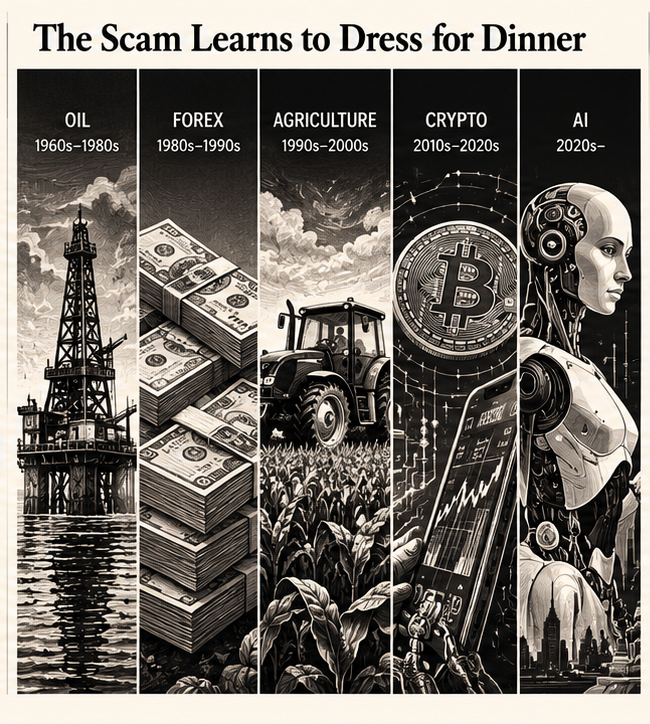
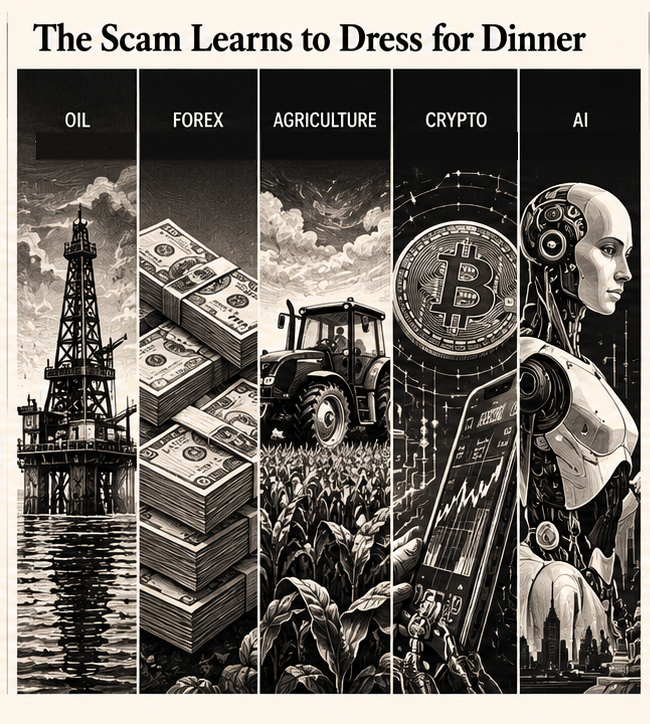
Standardise The Republic of 30%: label illustrations AI-generated, fix montage dates and sign caption, reword retired constructions, log in ledger
Claude-Session: https://claude.ai/code/session_01DnpQDjd1ztLDg9voyEfsYj

diff --git a/app/research/[slug]/page.tsx b/app/research/[slug]/page.tsx
@@ -19,35 +19,35 @@ function withRepublicNarrativeIllustrations(slug: string, html: string) {
 
   return html
     .replace(
-      "<p>Then came a man in Port Harcourt who understood the difference.</p>",
-      `<p>Then came a man in Port Harcourt who understood the difference.</p>${narrativeFigure(
+      "<h3>Before Telegram, There Was Aba Road</h3>",
+      `<h3>Before Telegram, There Was Aba Road</h3>${narrativeFigure(
         "01-before-telegram-aba-road.png",
-        "Black-and-white Seven Gates editorial reconstruction of a queue outside a Nigerian investment company before the Telegram era.",
-        "Seven Gates editorial illustration. Fictional reconstruction, not documentary evidence.",
+        "AI-generated black-and-white editorial illustration of a queue outside a fictional Nigerian investment company, before the Telegram era.",
+        "Seven Gates editorial illustration. AI-generated fictional scene, not documentary evidence. Company name and signage are invented.",
       )}`,
     )
     .replace(
       "<p>This was not competition. It was a declaration of war on multiplication.</p>",
       `${narrativeFigure(
         "02-1991-port-harcourt.png",
-        "Black-and-white Seven Gates editorial reconstruction of investors outside Resources Managers Investments Limited in 1991 Port Harcourt.",
-        "Seven Gates editorial illustration. Fictional reconstruction of the 1991 wonder-bank moment, not documentary evidence.",
+        "AI-generated black-and-white editorial illustration of investors queuing outside a fictional investment office, imagined in the style of 1991 Port Harcourt.",
+        "Seven Gates editorial illustration. AI-generated imagining of the 1991 wonder-bank moment, not documentary evidence. Signage is illustrative and does not reproduce the company's actual signage or registered name.",
       )}<p>This was not competition. It was a declaration of war on multiplication.</p>`,
     )
     .replace(
       "<p>The Professor of Wonders has acquired a dashboard.</p>",
       `<p>The Professor of Wonders has acquired a dashboard.</p>${narrativeFigure(
         "03-scam-dresses-for-dinner.png",
-        "Seven Gates editorial montage showing investment-fraud costumes shifting across oil, forex, agriculture, crypto and artificial intelligence.",
-        "Seven Gates editorial illustration. Oil, forex, agriculture, crypto and AI: different costumes, same promise.",
+        "AI-generated editorial montage of five panels labelled oil, forex, agriculture, crypto and AI, the costumes worn by investment fraud.",
+        "Seven Gates editorial illustration. AI-generated montage; panel order is thematic, not a dated sequence. Oil, forex, agriculture, crypto and AI: different costumes, same promise.",
       )}`,
     )
     .replace(
       "<p>Then came the number that travelled fastest: ₦1.3 trillion.</p>",
       `${narrativeFigure(
         "04-digital-ponzi.png",
-        "Black-and-white Seven Gates editorial illustration of Nigerian investors using phones around a fictional 30 per cent monthly digital investment platform.",
-        "Seven Gates editorial illustration. Fictional digital-Ponzi scene, not documentary evidence.",
+        "AI-generated black-and-white editorial illustration of Nigerian investors using phones around a fictional 30 per cent monthly digital investment platform.",
+        "Seven Gates editorial illustration. AI-generated fictional digital-Ponzi scene, not documentary evidence.",
       )}<p>Then came the number that travelled fastest: ₦1.3 trillion.</p>`,
     );
 }

diff --git a/content/research/republic-of-30-percent-nigeria-ponzi-schemes.md b/content/research/republic-of-30-percent-nigeria-ponzi-schemes.md
@@ -28,7 +28,7 @@ By The Lokoja Contrarian · 5 September 2026 · Restructured 5 October 2026 · S
 | Historical anchors | P. Crentsil (1920-21), Umanah / Resources Managers (1991), MMM (2016), CBEX (2025-26). |
 | Seven Gates view | Treat any promised return that cannot name its source of cash as a Ponzi until shown otherwise. Thematic essay; not rated. |
 | Evidence discipline | Official facts, court allegations, investor claims and media estimates are kept separate. |
-| Data cut-off | 5 September 2026. Structure refreshed 5 October 2026; no figure changed. |
+| Data cut-off | 5 September 2026. Structure refreshed 5 October 2026 and illustrations standardised 14 October 2026; no figure changed. |
 
 ### A note on the trigger
 
@@ -46,7 +46,7 @@ Thirty days later, his phone buzzes.
 
 Credit alert: ₦300,000.
 
-The arithmetic has arrived before the explanation.
+The credit alert has arrived before the explanation.
 
 He stares at the balance for a moment, because money on a screen has a peculiar authority. Then he takes a screenshot. This is the first ritual. The second is distribution. His wife sees it. A colleague sees it. His brother in London receives it with the caption, *I told you these people are serious.* By evening it has entered an alumni WhatsApp group. By Sunday, depending on the investor, it may have acquired a theological dimension.
 
@@ -206,7 +206,7 @@ Here is a simulation, in numbers, beginning with ₦1 billion of new money:
 | 7 | ₦8.845bn | 20% | ₦9.582bn | -₦737m | ₦996m |
 | 8 | ₦9.730bn | 10% | ₦11.499bn | -₦1.769bn | -₦773m |
 
-Month eight is the joke mathematics tells after everyone else has stopped laughing.
+Month eight is where the model breaks, after everyone else has stopped laughing.
 
 ![Illustrative MMM-style cash-flow simulation](/images/research/republic-of-30-percent-nigeria-ponzi-schemes/mmm_sim.svg)
 
@@ -260,7 +260,7 @@ A solvency problem acquires a run.
 
 A comparison with banking helps here. A bank can be economically solvent but temporarily illiquid: its assets may exceed its liabilities even though the assets cannot be converted to cash fast enough to meet withdrawals. A classic Ponzi has the more embarrassing problem. It is typically illiquid because its economics were never solvent in the first place.
 
-The crisis does not create the fraud. It forces the arithmetic to speak aloud.
+The crisis does not create the fraud. It forces the arithmetic into view.
 
 ### A Short Visit to New York
 
@@ -271,7 +271,7 @@ When the global financial crisis hit in 2008, clients wanted their money. Madoff
 
 It is often said loosely that the crisis "caused" Madoff to fail. That gives the market crash too much credit.
 
-**The mathematics was already fraudulent. The crisis forced the balance sheet to confess.**
+**The mathematics was already fraudulent. The crisis exposed the balance sheet.**
 
 What if Madoff had simply invested the money?
 
@@ -770,7 +770,7 @@ This is the final insult of a mature fraud: the victim is asked to finance the r
 
 It sounds absurd from outside the system. Inside, it is framed as the last small obstacle between the investor and his trapped fortune.
 
-Sunk cost has found a payment gateway.
+The sunk-cost trap now has a payment page.
 
 ### The Helicopter View
 
@@ -782,7 +782,7 @@ Bernie Madoff found sophisticated investors with stability and exclusivity.
 
 Albania in 1996-97 showed what happens when pyramid finance becomes systemic. IMF research estimated the schemes' nominal liabilities at roughly half of GDP, with participation reaching a huge share of the population. When they collapsed, financial failure became political disorder.
 
-Britain has had mini-bonds and investment scandals. France has had collectible and alternative-asset frauds. Crypto produced borderless versions because the sales funnel became global before the regulator could finish breakfast.
+Britain has had mini-bonds and investment scandals. France has had collectible and alternative-asset frauds. Crypto produced borderless versions because the sales funnel became global before any regulator could respond.
 
 Human beings everywhere are attracted to yield, authority, novelty and the possibility that the crowd has discovered something before they have.
 
@@ -898,7 +898,7 @@ Therefore, 30 per cent every month is sustainable.
 
 No.
 
-That is where arithmetic resumes jurisdiction.
+That is where the arithmetic settles it.
 
 Every Ponzi scheme sells the same financial product: **the feeling of being early.**
 
@@ -972,7 +972,7 @@ Somebody arrives early. Somebody gets paid. Somebody tells his friends. And some
 
 ## Research notes and selected sources
 
-**Data cut-off:** 5 September 2026 (unchanged in the 5 October 2026 refresh). Allegations are described as allegations. Investor and media estimates are not promoted into audited loss figures. The MMM cash-flow model and compounding examples are Seven Gates illustrations, not recovered scheme ledgers.
+**Data cut-off:** 5 September 2026 (unchanged in the 5 and 14 October 2026 refreshes). Allegations are described as allegations. Investor and media estimates are not promoted into audited loss figures. The MMM cash-flow model and compounding examples are Seven Gates illustrations, not recovered scheme ledgers.
 
 1. Securities and Exchange Commission, Nigeria, **"Public Alert on the Activities of MMM Federal Republic of Nigeria"**, 30 August 2016. https://sec.gov.ng/for-investors/keep-track-of-circulars/public-alert-on-the-activities-of-mmm-federal-republic-of-nigeria-nigeriammmnet/
 2. Securities and Exchange Commission, Nigeria, **Known Investment Scams** and enforcement notices, accessed 5 September 2026. https://www.sec.gov.ng/for-investors/known-investment-scams/
@@ -1001,5 +1001,7 @@ Somebody arrives early. Somebody gets paid. Somebody tells his friends. And some
 25. *Vanguard*, **"N2bn Investment scam: Court adjourns trial of agric entrepreneur to next week"**, 5 July 2023, reporting Federal Government and SEC allegations regarding an unregistered collective investment scheme valued above ₦2 billion. https://www.vanguardngr.com/2023/07/n2bn-investment-scam-court-adjourns-trial-of-agric-entrepreneur-to-next-week/
 
 **Revision note, 5 October 2026.** This is a structural refresh. The text, numbers, tables, quotations and sources of the 5 September 2026 edition are unchanged apart from the opening view box, the part headings, short transition sentences and the removal of a few stock constructions. Paragraphs were moved so that the mechanism and the arithmetic come before the history, the history before the psychology, and the psychology before the policy and the close. The ten figures were redrawn in the Seven Gates system from the numbers in the text. Figures 3, 8 and 9 are conceptual illustrations and carry no data values; the participant counts that appeared on an earlier draft of Figure 3 were removed because the essay's own model is in naira, not participants.
+
+**Revision note, 14 October 2026.** Standards pass. No figure, source or paragraph length changed. The four narrative illustrations added on 5 October were replaced after the first upload proved corrupt. All four are now labelled AI-generated in caption and alt text. In the 1991 Port Harcourt panel the shop sign is illustrative and does not reproduce the company's actual signage or registered name (Resources Managers Nigeria Limited). The era dates printed on the five-panel montage were removed because they conflicted with the essay's own chronology (forex after MMM, agricultural schemes around 2022) and the panels are thematic, not a dated sequence. The first illustration now sits below its section heading. Seven short phrases that personified arithmetic, a crisis or sunk cost were reworded to state the mechanism directly (retired register, 30 September 2026).
 
 <div style="margin-top:2em;padding:1.1em 1.2em;background:#F4F0E8;border:1px solid #C6BFAE;font-size:.86em;color:#46504F"><strong>Disclaimer.</strong> This publication is provided for informational and educational purposes only. It does not constitute financial, investment, tax, legal, or other professional advice, nor does it constitute a recommendation, offer, solicitation, or invitation to buy, sell, or hold any security, financial instrument, or investment. The analysis may contain opinions, estimates, assumptions, forecasts and forward-looking statements based on information considered reliable at the time of publication. Such views may change without notice, and actual outcomes may differ materially. Investing involves risk, including the possible loss of principal. Readers should conduct their own independent research, verify the information presented, consider their individual circumstances and risk tolerance, and obtain advice from appropriately qualified professional advisers before making any investment decision. Seven Gates Research accepts no responsibility for investment decisions made solely on the basis of this publication.</div>

diff --git a/docs/repetition-ledger.md b/docs/repetition-ledger.md
@@ -141,6 +141,14 @@ Families used more than once within a 20-article window, from the backfill of 28
 
 ## Entries
 
+### 2026-10-14 standards pass · republic-of-30-percent-nigeria-ponzi-schemes
+
+- **Type and rating:** Thematic essay, standards pass on the 5 October 2026 refresh. No rating. No figure, source, table or paragraph length changed.
+- **Correction record (standard 16.4):** the four narrative illustrations published on 5 October 2026 (commit 1fb90a3) were corrupt files and did not render. Replaced 14 October 2026. Separately, three content faults in them were corrected: (1) captions and alt text now state AI-generated (G13); (2) the 1991 panel's sign did not match the company's name in the essay (Resources Managers Nigeria Limited), so the caption now says signage is illustrative and not the company's actual signage, and the alt text no longer names the company; (3) the five-panel montage printed era dates that contradicted the essay (forex after MMM, agriculture around 2022), so the dates were removed and the caption says the panel order is thematic (G1, G3). The 5 October entry below recorded only the ten SVG figures; these four illustrations were not logged there.
+- **Visuals:** four AI-generated black-and-white narrative illustrations: a pre-Telegram queue outside a fictional investment company (below the "Before Telegram, There Was Aba Road" heading), a 1991 Port Harcourt investment-office queue, a five-panel costume montage (oil, forex, agriculture, crypto, AI), and a digital-Ponzi phone scene (before the CBEX 1.3 trillion naira paragraph). Titles are baked into the image files.
+- **Freshness edits (standard 6.4, retired 30 September 2026):** seven phrases that made arithmetic, a crisis, sunk cost or a regulator act like people were reworded to state the mechanism: "The arithmetic has arrived" (now the credit alert), "forces the arithmetic to speak aloud", "the joke mathematics tells", "forced the balance sheet to confess", "Sunk cost has found a payment gateway", "regulator could finish breakfast", "arithmetic resumes jurisdiction". No new anecdotes, quotations or metaphor families.
+- **Left as is, by choice:** length (about 9,200 words, accepted 5 October); the refrain "Where did the return come from?" (four uses, the essay's structural test); the closing line "The schemes change. Mathematics does not." (ending unchanged from 5 September).
+
 ### 2026-10-14 · briefing/2026-10-14
 
 - **Type:** Daily Brief, no investment rating.

diff --git a/CLAUDE.md b/CLAUDE.md
@@ -20,7 +20,7 @@ This repository is sevengatesresearch.com, an independent research house coverin
 
 ## Editorial standard and ledger (read before drafting or publishing)
 
-- The full house standard is `docs/editorial-standard.md`. It is authoritative. Read it in full before drafting, rewriting or publishing any research article. It is currently v0.5. Section 12 sets the publication mode and length; section 10.10 makes a five-year share-price chart mandatory for stock research; "red team" never appears in published copy (section 14). Section 19 is the publication gate: G1 to G16 block publication.
+- The full house standard is `docs/editorial-standard.md`. It is authoritative. Read it in full before drafting, rewriting or publishing any research article. It is currently v0.6. Section 12 sets the publication mode and length; section 10.10 makes a five-year share-price chart mandatory for stock research; "red team" never appears in published copy (section 14). Section 19 is the publication gate: G1 to G16 block publication.
 - The repetition ledger and corrections record is `docs/repetition-ledger.md`. Read it before choosing an opening (standard 6.4, workflow step 8). Add the article's entry in the same commit as the article (step 10, gate G8). Log every correction, rating change and withdrawal there (standard 16.4).
 - Quick reminders, not a substitute for the full text:
   - The answer before the sermon: state the Seven Gates view early.
